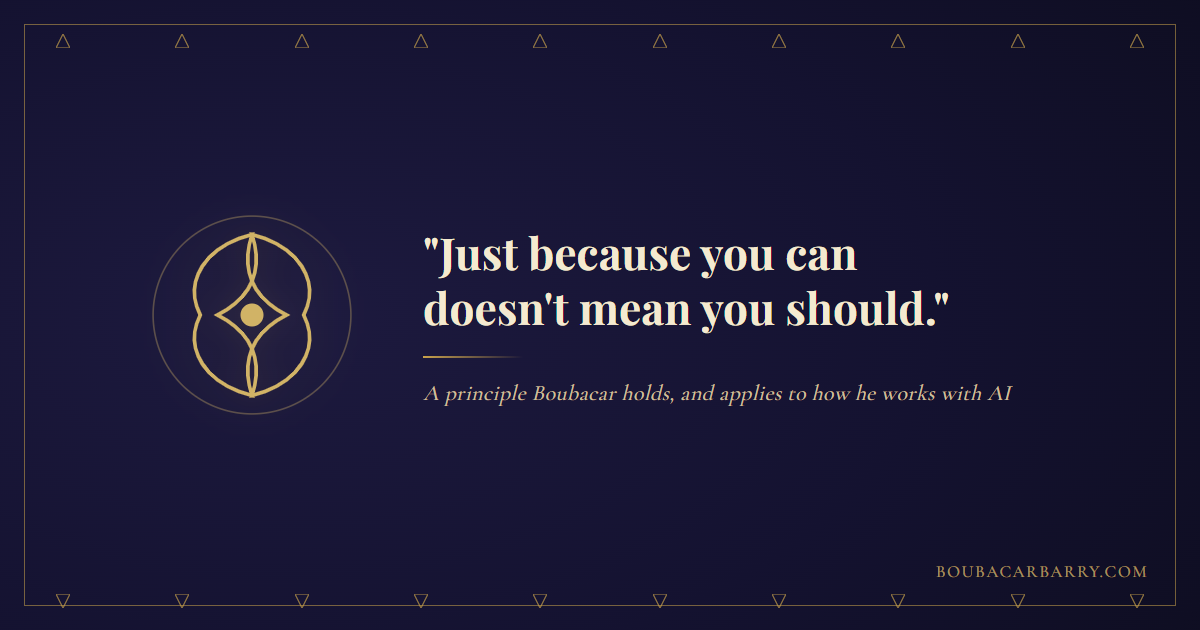
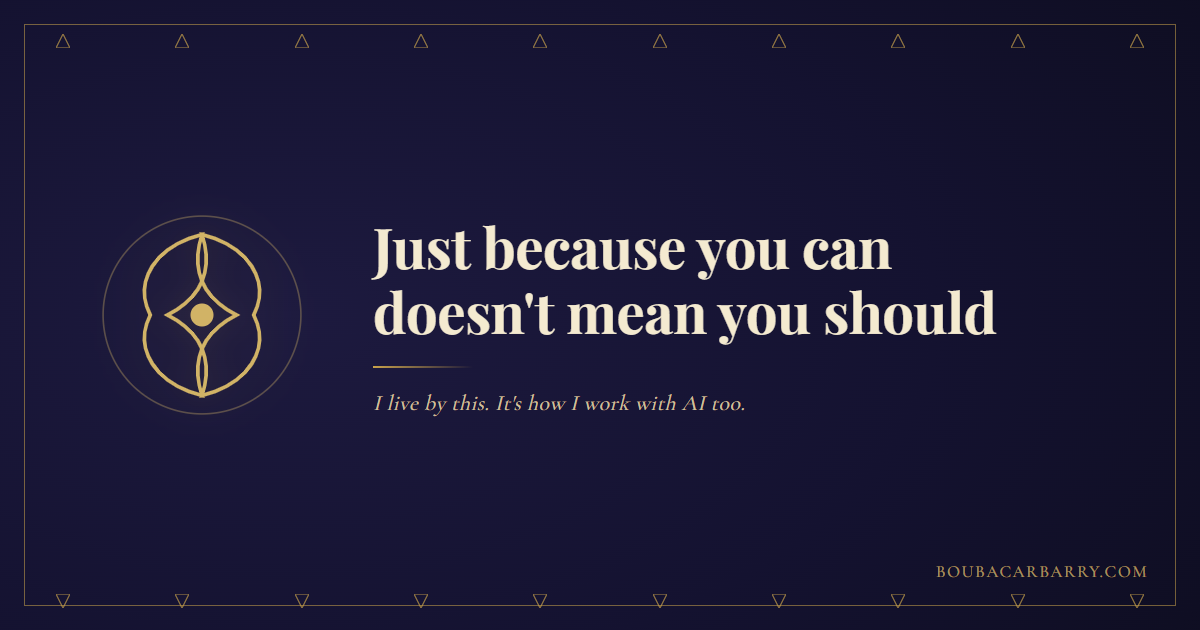
review: update 20260908-quote-poster (2026-09-08)

diff --git a/review/20260908-quote-poster/index.html b/review/20260908-quote-poster/index.html
@@ -41,17 +41,20 @@
 </style>
 </head>
 <body>
-<!-- DEPLOY_STAMP_START --><style id="deploy-stamp-css">@media (max-width:560px){#deploy-stamp{position:static !important;display:block;top:auto !important;right:auto !important;bottom:auto !important;left:auto !important;width:auto;max-width:calc(100% - 20px);margin:6px 10px 0;}}@media print{#deploy-stamp{position:static !important;}}</style><div id="deploy-stamp" style="position:fixed;top:8px;right:10px;z-index:99999;font-family:ui-monospace,'SF Mono',SFMono-Regular,Menlo,Consolas,monospace;font-size:11px;line-height:1;color:rgba(165,151,131,0.78);background:rgba(20,18,16,0.72);border:1px solid rgba(236,226,210,0.14);border-radius:6px;padding:4px 8px;letter-spacing:0.02em;backdrop-filter:blur(4px);-webkit-backdrop-filter:blur(4px);pointer-events:none;user-select:none;white-space:nowrap;">v2 · 2026-09-08-10:54:41 MT</div><!-- DEPLOY_STAMP_END -->
+<!-- DEPLOY_STAMP_START --><style id="deploy-stamp-css">@media (max-width:560px){#deploy-stamp{position:static !important;display:block;top:auto !important;right:auto !important;bottom:auto !important;left:auto !important;width:auto;max-width:calc(100% - 20px);margin:6px 10px 0;}}@media print{#deploy-stamp{position:static !important;}}</style><div id="deploy-stamp" style="position:fixed;top:8px;right:10px;z-index:99999;font-family:ui-monospace,'SF Mono',SFMono-Regular,Menlo,Consolas,monospace;font-size:11px;line-height:1;color:rgba(165,151,131,0.78);background:rgba(20,18,16,0.72);border:1px solid rgba(236,226,210,0.14);border-radius:6px;padding:4px 8px;letter-spacing:0.02em;backdrop-filter:blur(4px);-webkit-backdrop-filter:blur(4px);pointer-events:none;user-select:none;white-space:nowrap;">v2 · 2026-09-08-11:04:38 MT</div><!-- DEPLOY_STAMP_END -->
+
+
 
 <div class="wrap">
   <header>
-    <h1>Quote poster review<br><span class="quote-line">"Just because you can doesn't mean you should."</span></h1>
+    <h1>Quote poster review<br><span class="quote-line">Just because you can doesn't mean you should</span></h1>
     <p class="sub">Three design directions, African art/design motifs, screensaver-quality. Each has a
       <strong>square crop</strong> (mobile screensaver / Instagram-style share) and a <strong>landscape crop</strong>
-      (X / LinkedIn feed). Pick one, or ask for a mix-and-match. This line is not his own; it's commonly attributed
-      elsewhere (quote-database credit to Sherrilyn Kenyon, William C. Taylor's <em>Practically Radical</em>, and the
-      pop-culture Jurassic Park line) — every design frames it as a principle he holds, never as something he coined.</p>
-    <span class="badge">Draft for review — nothing posted anywhere yet</span>
+      (X / LinkedIn feed). This line isn't mine originally; it's commonly attributed elsewhere (quote-database
+      credit to Sherrilyn Kenyon, William C. Taylor's <em>Practically Radical</em>, and the pop-culture Jurassic
+      Park line). Boubacar has made the call to present it in first person, no quote marks, as a principle he
+      holds, not a citation.</p>
+    <span class="badge">Revised after his first-pass feedback — Concept C rebuilt, quote marks and third-person copy dropped everywhere</span>
   </header>
 
   <section class="concept">
@@ -99,32 +102,40 @@
   </section>
 
   <section class="concept">
-    <div class="tag">Concept C — original concept</div>
-    <h2>Sankofa duotone split-field</h2>
+    <div class="tag">Concept C — rebuilt after feedback</div>
+    <h2>Complementary gradient, type-led</h2>
+    <p class="sub" style="margin:0 0 14px;">Original version had a Sankofa bird symbol and a literal CAN / SHOULD
+      split-screen — flagged as too busy and too on-the-nose. Both are gone. This version is one background field,
+      no central motif, no split labels, and the line itself is now the design: big, first person, no quote marks.</p>
     <div class="grid">
       <figure>
-        <img src="assets/c-square.png" alt="Concept C square crop, Sankofa bird on a split blue and amber field">
+        <img src="assets/c-square.png" alt="Concept C square crop, giant white quote type over a diagonal indigo-to-amber gradient">
         <figcaption><span>Square / screensaver</span><span>1080×1080</span></figcaption>
       </figure>
       <figure>
-        <img src="assets/c-landscape.png" alt="Concept C landscape crop, Sankofa bird on a split blue and amber field">
+        <img src="assets/c-landscape.png" alt="Concept C landscape crop, giant white quote type over a diagonal indigo-to-amber gradient">
         <figcaption><span>Landscape / feed</span><span>1200×630</span></figcaption>
       </figure>
     </div>
     <div class="colortheory">
-      <b>Color theory (explicitly applied, not decorative):</b> a genuine <b>complementary pair</b> — indigo/blue
-      (~224° hue) on the "can" side against amber/orange (~32° hue) on the "should" side, roughly 180° apart on the
-      wheel. Complementary pairs are the highest-contrast relationship in color theory, and that's the point: the
-      tension in the quote (capability vs. restraint) is made visible in the palette itself, not just stated in the
-      words. The Sankofa bird, the Adinkra symbol for "go back and get it," straddles the seam in a single neutral
-      cream line so it reads as belonging to both halves at once — the wisdom that has to look backward before
-      capability moves forward.
+      <b>Color theory (still explicitly applied, no longer literalized):</b> the field is one continuous diagonal
+      gradient blending indigo/blue (~224° hue) into amber/orange (~32° hue) — a genuine <b>complementary pair</b>,
+      roughly 180° apart on the wheel, the highest-contrast relationship available. The earlier version stated that
+      tension as two flat halves with labels; this version dissolves it into a single gradient, so the contrast is
+      still real and still deliberate, it just isn't spelled out. Nothing else competes with the type.
     </div>
   </section>
 
   <div class="caption-block">
+    <h2>On-image kicker line (all three concepts, voice-checked)</h2>
+    <p class="sub" style="margin:0 0 10px;">Small line under the big quote text. First person, his name doesn't
+      appear in it, appears once total on the design as a small watermark instead.</p>
+    <pre class="copybox">I live by this. It's how I work with AI too.</pre>
+  </div>
+
+  <div class="caption-block">
     <h2>Suggested LinkedIn / X caption (voice-checked, ready to copy)</h2>
-    <pre class="copybox">"Just because you can doesn't mean you should."
+    <pre class="copybox">Just because you can doesn't mean you should.
 
 I didn't coin that line. It shows up in quote collections, in Bill Taylor's book Practically Radical, and most people know it from Jurassic Park. I hold it anyway, as a working principle.
 
@@ -136,6 +147,7 @@ It's the test I run before I let AI touch anything. The tools can do almost what
     and I'll prep the final export.
   </footer>
 </div>
+
 <!-- REVIEW_FURNITURE_START (managed by scripts/inject-review-furniture.ps1 -- do not hand-edit) -->
 <style id="review-furniture-css">
   /* Base link-colour safety net -- see comment above. Zero-specificity fallback only;
@@ -287,6 +299,9 @@ It's the test I run before I let AI touch anything. The tools can do almost what
 <!-- REVIEW_FURNITURE_END -->
 </body>
 </html>
+
+
+
 
 
 
